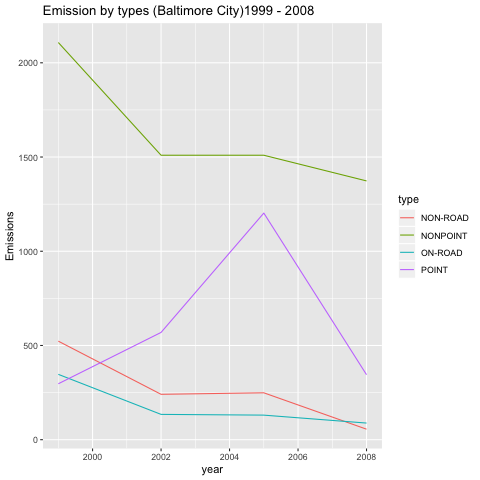
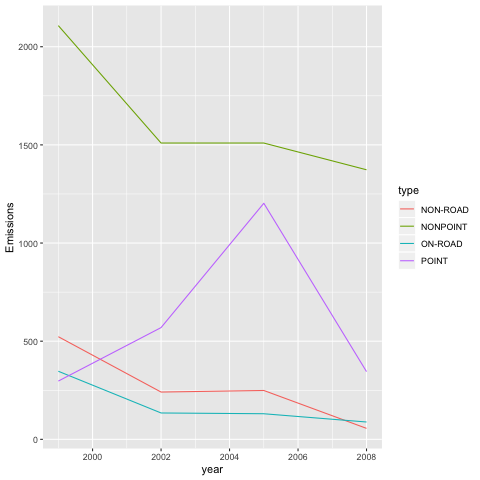
push in changes

diff --git a/EDAProject2/readme.md b/EDAProject2/readme.md
@@ -184,7 +184,9 @@ typeyearsubset <- group_by(typeyearsubset,type, add = TRUE)%>%filter(fips == "24
 
 Then run the qplot from the ggplot package to plot the trends for the differet source types:
 ```{r,eval=FALSE}
-qplot(year,Emissions, data = typeyearsubset, color = type, geom = "line", main = "Emission by types (Baltimore City)1999 - 2008")
+p <- ggplot(typeyearsubset, aes(year,Emissions))+geom_line(aes(color = type))+labs(x="year", y=expression("Total PM"[2.5]*" Emission (Tons)"))
+p+labs(title=expression("Emission by types (Baltimore City)1999 - 2008"))
+
 ```
 
 The final result of the plotting code is show below:-
